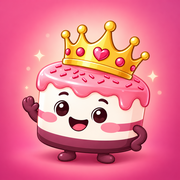
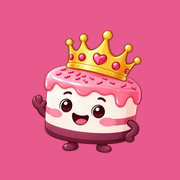
4.52: ícone do app com fundo rosa
- bolinho de coroa no fundo rosa da marca (Android, iPhone e aba do navegador)
- versão com margem pro recorte redondo do Android

Claude-Session: https://claude.ai/code/session_01Tr1mYrTU9rTShFnbh3vuaV

diff --git a/index.html b/index.html
@@ -2,11 +2,11 @@
 <html lang="pt-BR">
   <head>
     <meta charset="UTF-8" />
-    <link rel="icon" type="image/png" sizes="32x32" href="/Sistema/favicon-doo-32.png" />
-    <link rel="icon" type="image/png" sizes="16x16" href="/Sistema/favicon-doo-16.png" />
-    <link rel="icon" type="image/png" sizes="48x48" href="/Sistema/favicon-doo-48.png" />
-    <link rel="shortcut icon" href="/favicon.ico" />
-    <link rel="apple-touch-icon" sizes="180x180" href="/Sistema/apple-touch-icon.png" />
+    <link rel="icon" type="image/png" sizes="32x32" href="/Sistema/favicon-doo-32.png?v=2810" />
+    <link rel="icon" type="image/png" sizes="16x16" href="/Sistema/favicon-doo-16.png?v=2810" />
+    <link rel="icon" type="image/png" sizes="48x48" href="/Sistema/favicon-doo-48.png?v=2810" />
+    <link rel="shortcut icon" href="/favicon.ico?v=2810" />
+    <link rel="apple-touch-icon" sizes="180x180" href="/Sistema/apple-touch-icon.png?v=2810" />
     <meta name="viewport" content="width=device-width, initial-scale=1.0, maximum-scale=1.0, viewport-fit=cover" />
     <meta name="theme-color" content="#FFFFFF" />
     <link rel="preload" as="image" href="/marca/leve/bolo-coroa.webp" type="image/webp" />

diff --git a/src/lib/versao.ts b/src/lib/versao.ts
@@ -2,4 +2,4 @@
  * Versão do app — aparece no menu da foto e vai junto nas sugestões e nos problemas relatados.
  * A cada atualização publicada, sobe 1 no número depois do ponto: 2.0 → 2.1 → 2.2 …
  */
-export const VERSAO_APP = "4.51";
+export const VERSAO_APP = "4.52";
